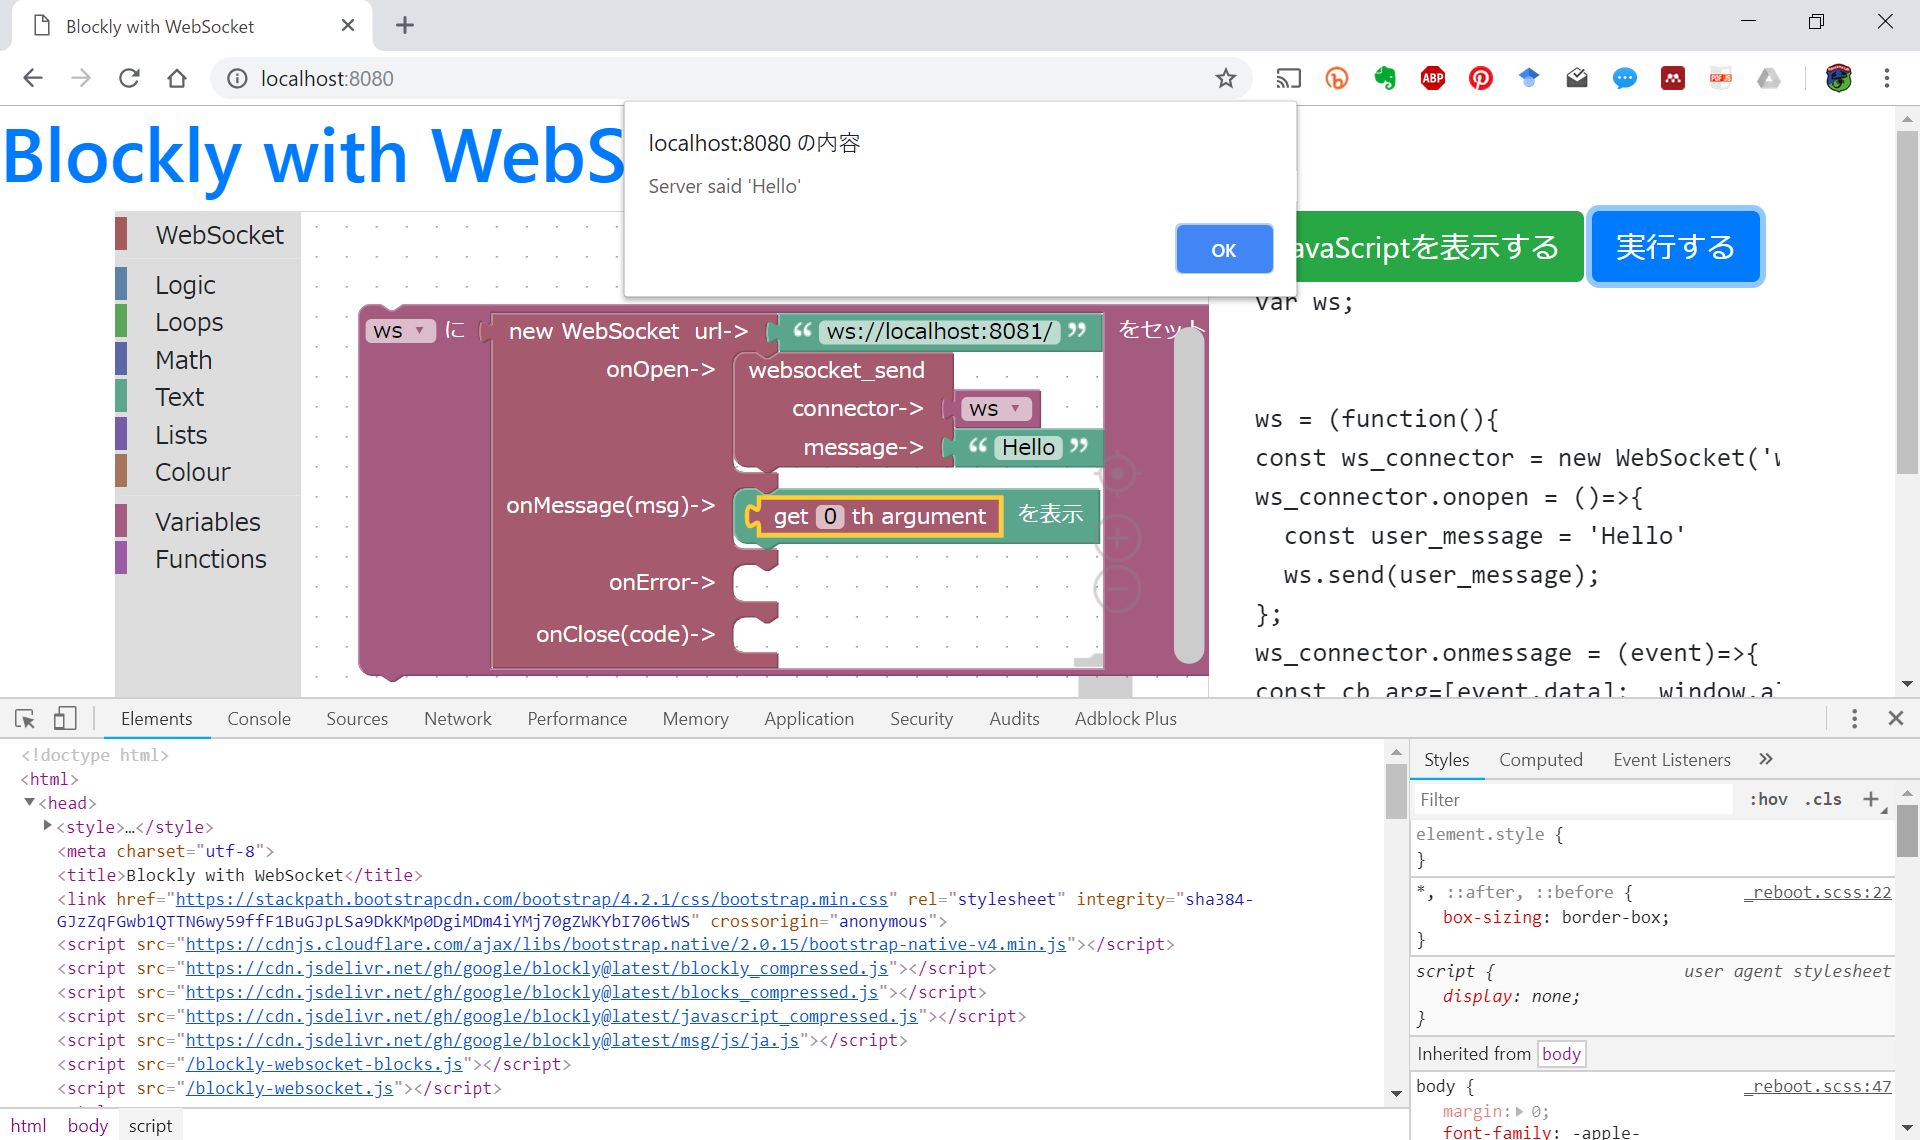
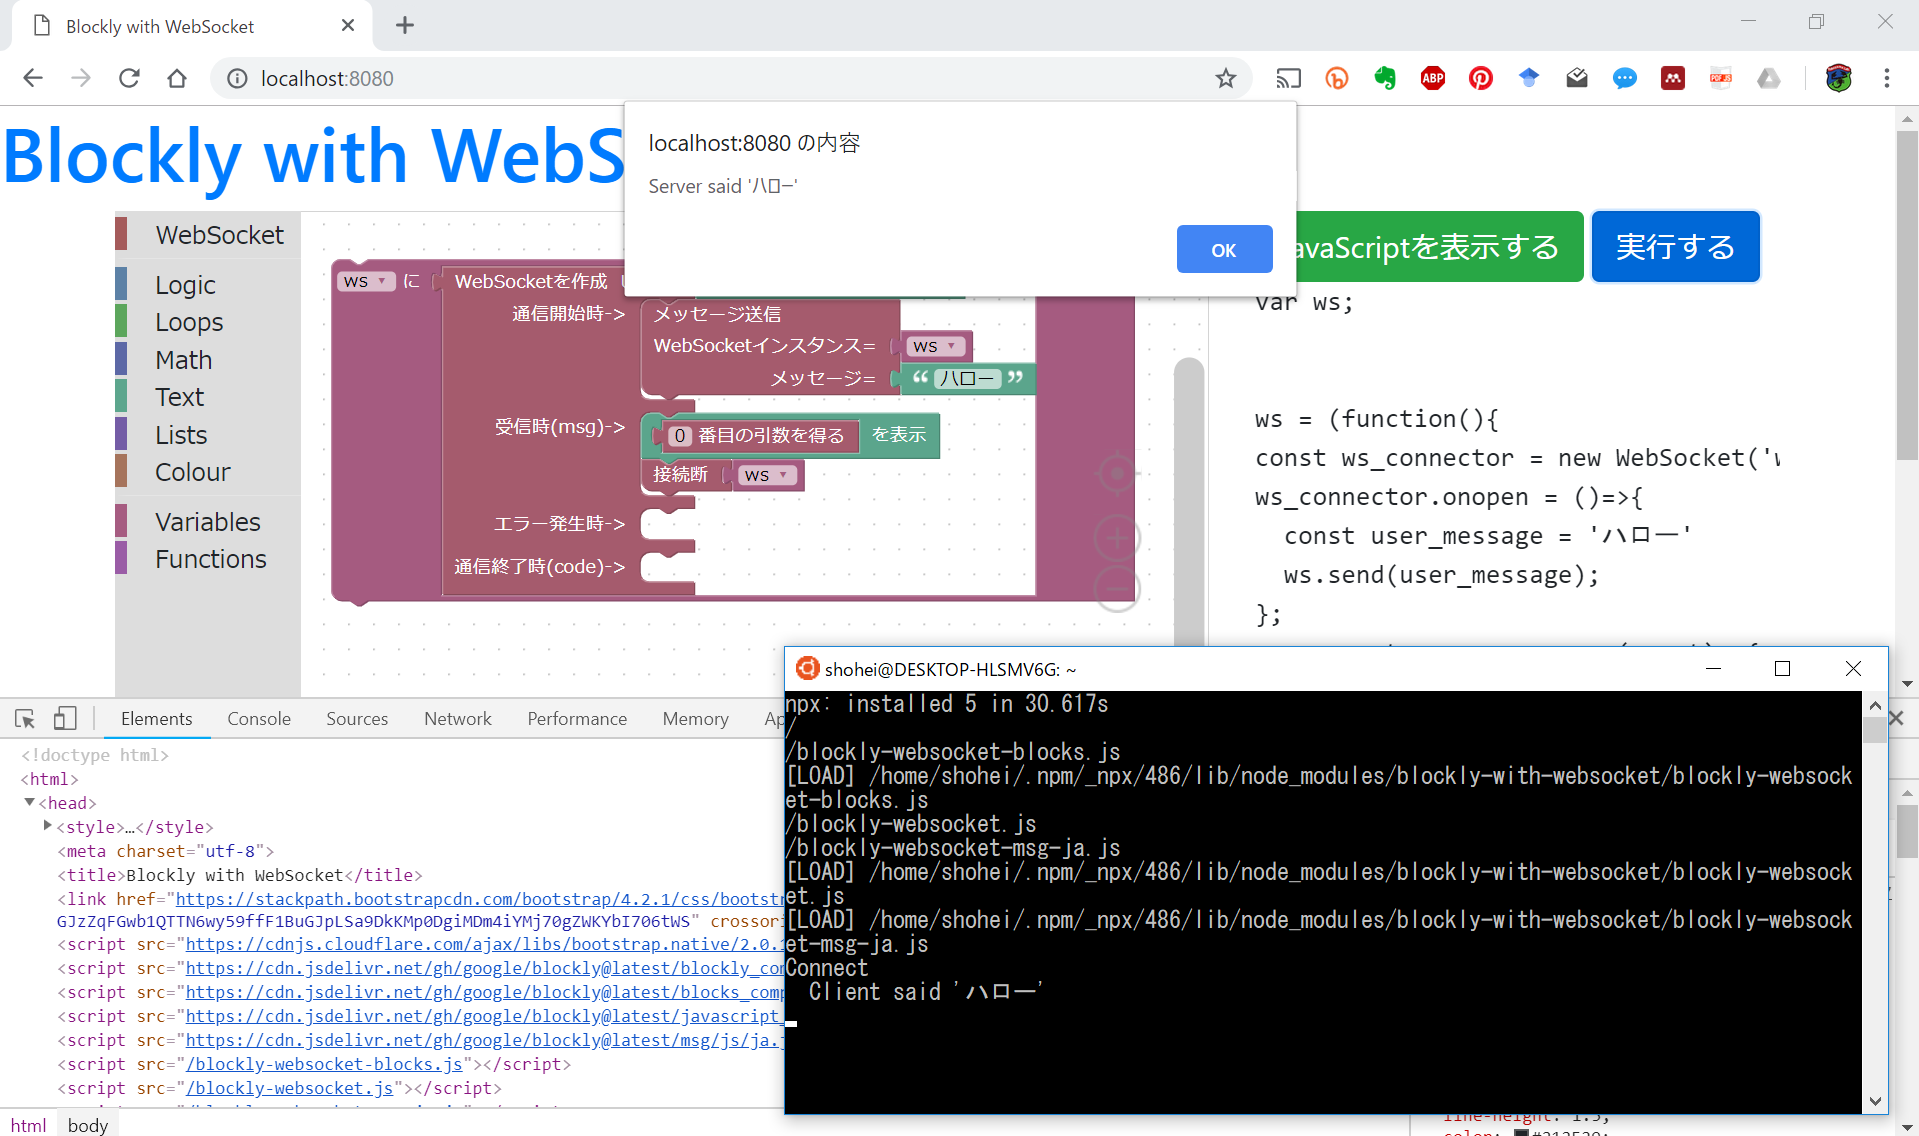
i18n (language selector)

diff --git a/server.js b/server.js
@@ -6,12 +6,15 @@ const http = require('http'),
     path = require('path'),
     async = require('async');
 
+const bws_lang = ['en', 'ja'];
+const BLOCKLY_LANGUAGE_CODE = process.argv.length > 2 ? process.argv[2] : 'en';
+const BWS_LANGUAGE_CODE = (process.argv.length > 2 && bws_lang.includes(process.argv[2])) ? process.argv[2] : bws_lang[0];
 const values = {
     'html': path.join(__dirname, 'client.html'),
     'js': {
         '/blockly-websocket.js': path.join(__dirname, 'blockly-websocket.js'),
         '/blockly-websocket-blocks.js': path.join(__dirname, 'blockly-websocket-blocks.js'),
-        '/blockly-websocket-msg-ja.js': path.join(__dirname, 'blockly-websocket-msg-ja.js')
+        '/blockly-websocket-msg.js': path.join(__dirname, 'blockly-websocket-msg-'+BWS_LANGUAGE_CODE+'.js')
     },
     'http': 8080,
     'websocket': 8081
@@ -21,7 +24,7 @@ async.mapValues(values,
     (val, key, callback) => {
         switch (key) {
             case 'html':
-                fs.readFile(val, 'binary', callback);
+                fs.readFile(val, "utf8", callback);
                 break;
             case 'js':
                 callback(null, val);
@@ -59,7 +62,7 @@ async.mapValues(values,
                     } else {
                         console.log("[LOAD]", $['js'][request.url]);
                         response.writeHead(200, header);
-                        response.write(body, 'binary');
+                        response.write(body, 'utf8');
                         response.end();
                     }
                 });
@@ -70,8 +73,9 @@ async.mapValues(values,
                     'Pragma': 'no-cache',
                     'Cache-Control': 'no-cache'
                 }
+                console.log($['html']);
                 response.writeHead(200, header);
-                response.write($['html'], 'binary');
+                response.write($['html'].replace(/\%\%_BLOCKLY_LANGUAGE_CODE_\%\%/g, BLOCKLY_LANGUAGE_CODE), 'utf8');
                 response.end();
             } else {
                 response.writeHead(404, { 'Content-Type': 'text/plain' });
@@ -80,7 +84,7 @@ async.mapValues(values,
         });
         $['websocket'].on('connection', (client) => {
             console.log('Connect');
-            client.on('close',()=>{
+            client.on('close', () => {
                 console.log('Close');
             });
             client.on('message', (message) => {

diff --git a/client.html b/client.html
@@ -10,10 +10,11 @@
     <script src="https://cdn.jsdelivr.net/gh/google/blockly@latest/blockly_compressed.js"></script>
     <script src="https://cdn.jsdelivr.net/gh/google/blockly@latest/blocks_compressed.js"></script>
     <script src="https://cdn.jsdelivr.net/gh/google/blockly@latest/javascript_compressed.js"></script>
-    <script src="https://cdn.jsdelivr.net/gh/google/blockly@latest/msg/js/ja.js"></script>
+    <script src="https://cdn.jsdelivr.net/gh/google/blockly@latest/msg/js/%%_BLOCKLY_LANGUAGE_CODE_%%.js"></script>
+    <!-- script src="https://cdn.jsdelivr.net/gh/google/blockly@latest/msg/js/en.js"></script -->
     <script src="/blockly-websocket-blocks.js"></script>
     <script src="/blockly-websocket.js"></script>
-    <script src="/blockly-websocket-msg-ja.js"></script>
+    <script src="/blockly-websocket-msg.js"></script>
     <style>
         #blocklyDiv{
         height:100vh;

diff --git a/README.md b/README.md
@@ -1,6 +1,10 @@
+
+
 # Blockly-with-WebSocket
 
 A study for Handling Callback Function with Blockly
+
+日本語版もあるよ☆ (このページの下の方、i18nの所を見てね)
 
 ## Usage
 
@@ -18,3 +22,32 @@ npx blockly-with-websocket
 * Click the green button to show JavaScript code
 * Click the blue button to execute your blocks
 * Did you hear Echoes?
+
+## i18n
+
+### Available Natural Languages
+
+|      |      |
+| ---: | :--- |
+| Yse | Japanese |
+| Yse | English |
+
+```bash
+# 日本語版の実行
+gpx blockly-with-websocket ja
+
+# Basque Language Version (but all blocks for WebSocket are English)
+gpx blockly-with-websocket eu
+```
+
+* All available languages are listed in https://github.com/google/blockly/tree/master/msg/js
+
+### Available Programming Languages
+
+|      |      |
+| ---: | :--- |
+| Yse | JavaScript |
+| No | Python |
+| No | PHP |
+| No | Lua |
+| No | Dart |
